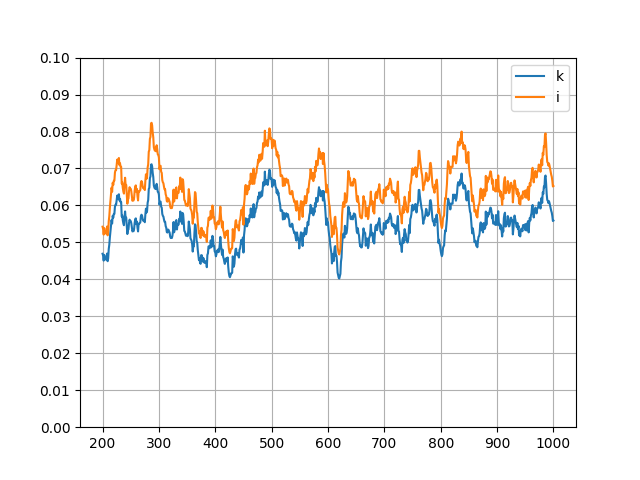
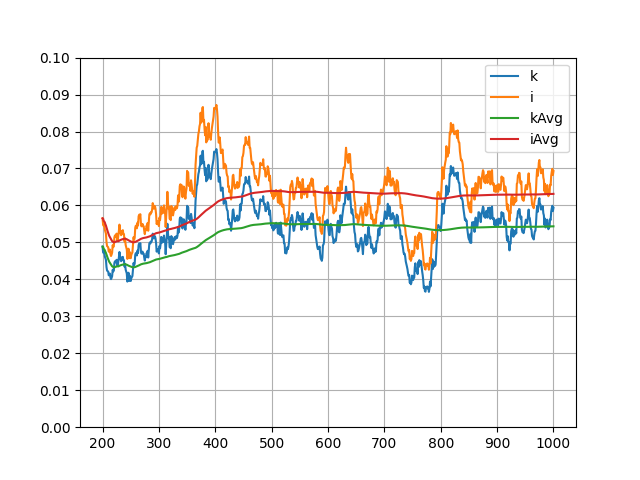
add time average of statistics

Changed region(s): [[0.1562, 0.125, 0.9062, 0.625]]

diff --git a/ffforcing-acc.cpp b/ffforcing-acc.cpp
@@ -51,13 +51,13 @@ double              RMS_DIV;
 double              MAXDIAGI = 1.;
 
 const static double C_SMAGORINSKY = 0.1;
-double              TURB_K;
-double              TURB_I;
+double              TURB_K, TURB_K_AVG=0.;
+double              TURB_I, TURB_I_AVG=0.;
 int                 TAVG_NSTEP = 0;
 int                 STATIC_NSTEP = 0;
 
 const static double LOW_PASS = 2.;
-const static double FORCING_EFK = 1e-3;
+const static double FORCING_EFK = 1e-2;
 
 random_device RD;
 default_random_engine GEN(RD());
@@ -1022,18 +1022,23 @@ int main() {
     printf("max diag=%lf\n", 1./MAXDIAGI);
 
     FILE *statistic_file = fopen("data/statistics.csv", "w");
-    fprintf(statistic_file, "t,k,i\n");
+    fprintf(statistic_file, "t,k,i,kAvg,iAvg\n");
     for (ISTEP = 1; ISTEP <= MAXSTEP; ISTEP ++) {
         main_loop();
-        printf("\r%8d, %9.5lf, %3d, %10.3e, %10.3e, %10.3e, %10.3e, %10.3e", ISTEP, gettime(), LS_ITER, LS_ERR, RMS_DIV, TURB_K, TURB_I, MAX_CFL);
-        fflush(stdout);
         if (ISTEP%int(1./DT) == 0 && ISTEP >= int(10000./DT)) {
             output_field(ISTEP/int(1./DT));
             printf("\n");
         }
-        if (ISTEP%int(1./DT) == 0 && ISTEP >= int(200./DT)) {
-            fprintf(statistic_file, "%10.5lf,%12.5e,%12.5e\n", gettime(), TURB_K, TURB_I);
+        if (ISTEP >= int(200./DT)) {
+            double NTURBAVG = ISTEP - int(200./DT) + 1;
+            TURB_K_AVG = (1. - 1./NTURBAVG)*TURB_K_AVG + (1./NTURBAVG)*TURB_K;
+            TURB_I_AVG = (1. - 1./NTURBAVG)*TURB_I_AVG + (1./NTURBAVG)*TURB_I;
+            if (ISTEP%int(1./DT) == 0) {
+                fprintf(statistic_file, "%10.5lf,%12.5e,%12.5e,%12.5e,%12.5e\n", gettime(), TURB_K, TURB_I, TURB_K_AVG, TURB_I_AVG);
+            }
         }
+        printf("\r%8d, %9.5lf, %3d, %10.3e, %10.3e, %10.3e, %10.3e, %10.3e, %10.3e, %10.3e", ISTEP, gettime(), LS_ITER, LS_ERR, RMS_DIV, TURB_K, TURB_K_AVG, TURB_I, TURB_I_AVG, MAX_CFL);
+        fflush(stdout);
     }
     printf("\n");
     fclose(statistic_file);

diff --git a/show-statistics.py b/show-statistics.py
@@ -6,6 +6,8 @@ d = pd.read_csv("data/statistics.csv")
 
 plt.plot(d["t"], d["k"], label="k")
 plt.plot(d["t"], d["i"], label="i")
+plt.plot(d["t"], d["kAvg"], label="kAvg")
+plt.plot(d["t"], d["iAvg"], label="iAvg")
 plt.grid(True)
 plt.ylim([0, 0.1])
 plt.yticks(np.arange(0, 0.11, 0.1/10))
